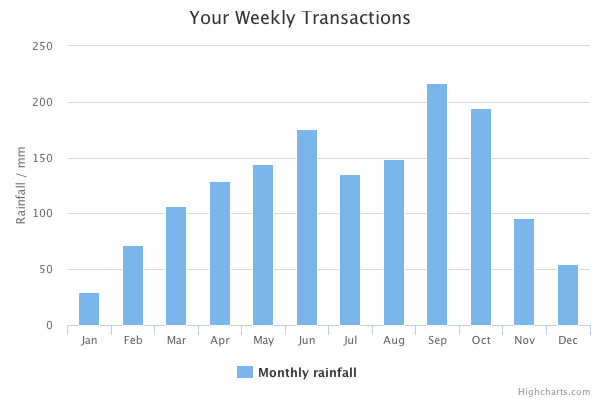
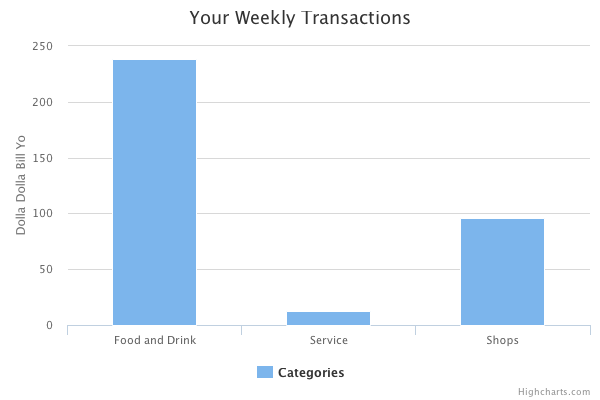
Finished weekly cron job for email news letter

diff --git a/server/controllers/cronController.js b/server/controllers/cronController.js
@@ -58,11 +58,13 @@ let cronController = {
           if (transaction.date >= date) {
             return db.knex.select().table('categories').where({id: transaction.category_id})
               .then((category) => {
-
-                if (category.description in categories) {
-                  categories[category.description] += transaction.amount
+                console.log(category)
+                let type = category[0].description
+                let amount = transaction.amount
+                if (!(type in categories)) {
+                  categories[type] = amount
                 } else {
-                  categories[category.description] = transaction.amount
+                  categories[type] += amount
                 }
 
               })
@@ -144,7 +146,7 @@ let cronController = {
       }
     })
     // Generate the chart into the container
-    Highcharts.chart('container', chartConfig());
+    Highcharts.chart('container', chartConfig(sums));
 
     //get svg and remove div container surrounding it
     var svg = win.document.getElementById('container').innerHTML.slice(178)
@@ -169,12 +171,14 @@ function chartConfig(data) {
 
 
   //convert sums to datapoints for highchart
+  console.log('data in chart config: --->', data)
   let userCategories = []
   let dataPoints = []
   for (var key in data) {
     userCategories.push(key)
     dataPoints.push({y: data[key]})
   }
+  console.log(userCategories, dataPoints)
 
   return {
     chart: {
@@ -187,12 +191,12 @@ function chartConfig(data) {
     },
     xAxis: {
         //switch out hardcoded categories with user categories
-        categories: ['Jan', 'Feb', 'Mar', 'Apr', 'May', 'Jun', 'Jul', 'Aug', 'Sep', 'Oct', 'Nov', 'Dec']
+        categories: userCategories
     },
 
     yAxis: {
         title: {
-            text: 'Rainfall / mm'
+            text: 'Dollars / week'
         }
     },
 
@@ -211,32 +215,8 @@ function chartConfig(data) {
 
     series: [{
         //switch out hardCoded data with user data points
-        name: 'Monthly rainfall',
-        data: [{
-            y: 29.9,
-        }, {
-            y: 71.5
-        }, {
-            y: 106.4
-        }, {
-            y: 129.2
-        }, {
-            y: 144.0
-        }, {
-            y: 176.0
-        }, {
-            y: 135.6
-        }, {
-            y: 148.5
-        }, {
-            y: 216.4,
-        }, {
-            y: 194.1
-        }, {
-            y: 95.6
-        }, {
-            y: 54.4
-        }]
+        name: 'Categories',
+        data: dataPoints
     }]
   }
 }

diff --git a/server/schedule.js b/server/schedule.js
@@ -4,10 +4,10 @@ import cronHandler from './handlers/cronHandler'
 export default function() {
   console.log('in scheduler, job is: ---------->')
 
-  // let rule = new schedule.RecurrenceRule()
-  // rule.dayOfWeek = 4
-  // rule.hour = 10
-  // rule.minute = 0
+  let rule = new schedule.RecurrenceRule()
+  rule.dayOfWeek = 0
+  rule.hour = 10
+  rule.minute = 0
 
-  let job = schedule.scheduleJob('*/1 * * * *', cronHandler.sendMail)
+  let job = schedule.scheduleJob(rule, cronHandler.sendMail)
 }
